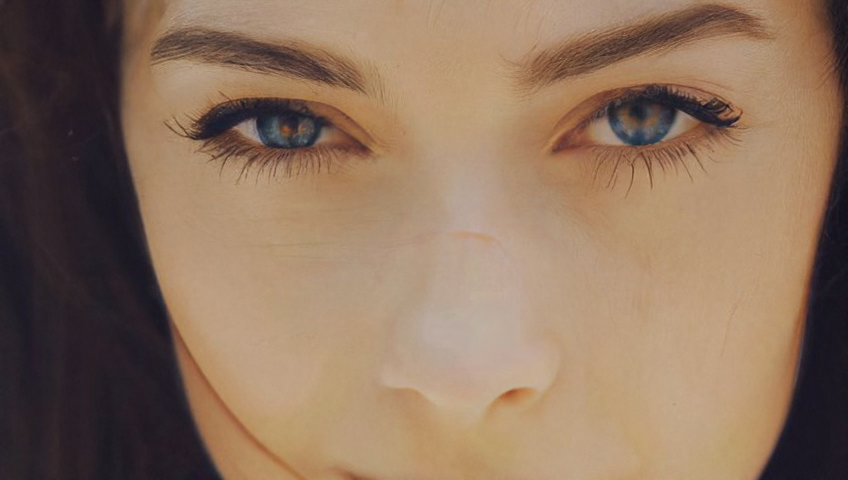
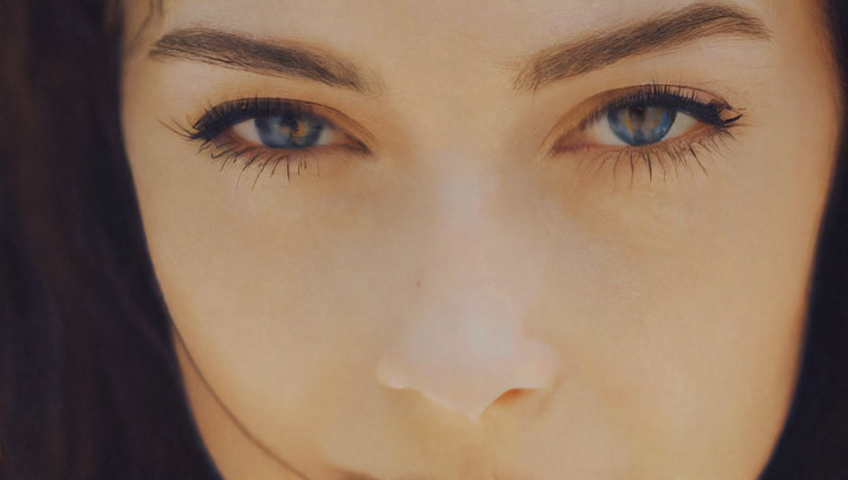
add cv2 img processing func

diff --git a/src/util/img_processing.py b/src/util/img_processing.py
@@ -1,0 +1,35 @@
+import cv2
+import numpy as np
+
+def histogram_equalization(image):
+    gray_image = cv2.cvtColor(image, cv2.COLOR_BGR2GRAY)
+    equalized_image = cv2.equalizeHist(gray_image)
+    return equalized_image
+
+def contrast_stretching(image):
+    image_min = np.min(image)
+    image_max = np.max(image)
+    return (image - image_min) * (255 / (image_max - image_min))
+
+def smooth_image(image, method='gaussian', kernel_size=(5, 5), sigma_x=0):
+    if method == 'gaussian':
+        return cv2.GaussianBlur(image, kernel_size, sigma_x)
+    elif method == 'median':
+        return cv2.medianBlur(image, kernel_size[0])
+    elif method == 'bilateral':
+        return cv2.bilateralFilter(image, kernel_size[0], sigma_x, sigma_x)
+    
+def median_filter(image, kernel_size=5):
+    return cv2.medianBlur(image, kernel_size)
+
+def inpaint_image(image, mask, method='telea', radius=3):
+    if method == 'navier_stokes':
+        return cv2.inpaint(image, mask, radius, cv2.INPAINT_NS)
+    else:
+        return cv2.inpaint(image, mask, radius, cv2.INPAINT_TELEA)
+    
+def sharpen_image(image):
+    kernel = np.array([[-1, -1, -1],
+                       [-1, 9, -1],
+                       [-1, -1, -1]])
+    return cv2.filter2D(image, -1, kernel)

diff --git a/src/super_scaler.py b/src/super_scaler.py
@@ -1,9 +1,10 @@
 import cv2
 import time
 import os
+from util import *
 
 video_path = './media/name.mp4'
-model = './models/LapSRN_x4.pb'
+model = './models/ESPCN_x4.pb'
 # parse model metadata
 modelName = model.split('/')[-1].split("_")[0].lower()
 modelScale = model.split("_x")[-1]
@@ -14,7 +15,7 @@ sr = cv2.dnn_superres.DnnSuperResImpl_create()
 sr.readModel(model)
 sr.setModel(modelName, modelScale)
 
-cap.set(cv2.CAP_PROP_POS_FRAMES, 200)
+cap.set(cv2.CAP_PROP_POS_FRAMES, 250)
 success, frame = cap.read()
 if success:
     # use the super resolution model to upscale the image, timing how
@@ -32,6 +33,7 @@ if success:
 
     if k == 27:         # If escape was pressed exit
         cv2.destroyAllWindows()
+
 # while True:
 #     success, frame = cap.read()
 #     if success:

diff --git a/src/stable_diff.py b/src/stable_diff.py
@@ -29,7 +29,7 @@ if success:
 
         # run x4 upscaler
         start = time.time()
-        prompt = "realistic, sharp, vibrant, smooth"
+        prompt = "realistic, no wrinkle, vibrant, smooth"
         upscaled = pipeline(prompt=prompt, image=small_frame).images[0]
         end = time.time()
         print("[INFO] super resolution took {:.6f} seconds".format(

diff --git a/src/util/__init__.py b/src/util/__init__.py
@@ -1,0 +1,1 @@
+from img_processing import *
